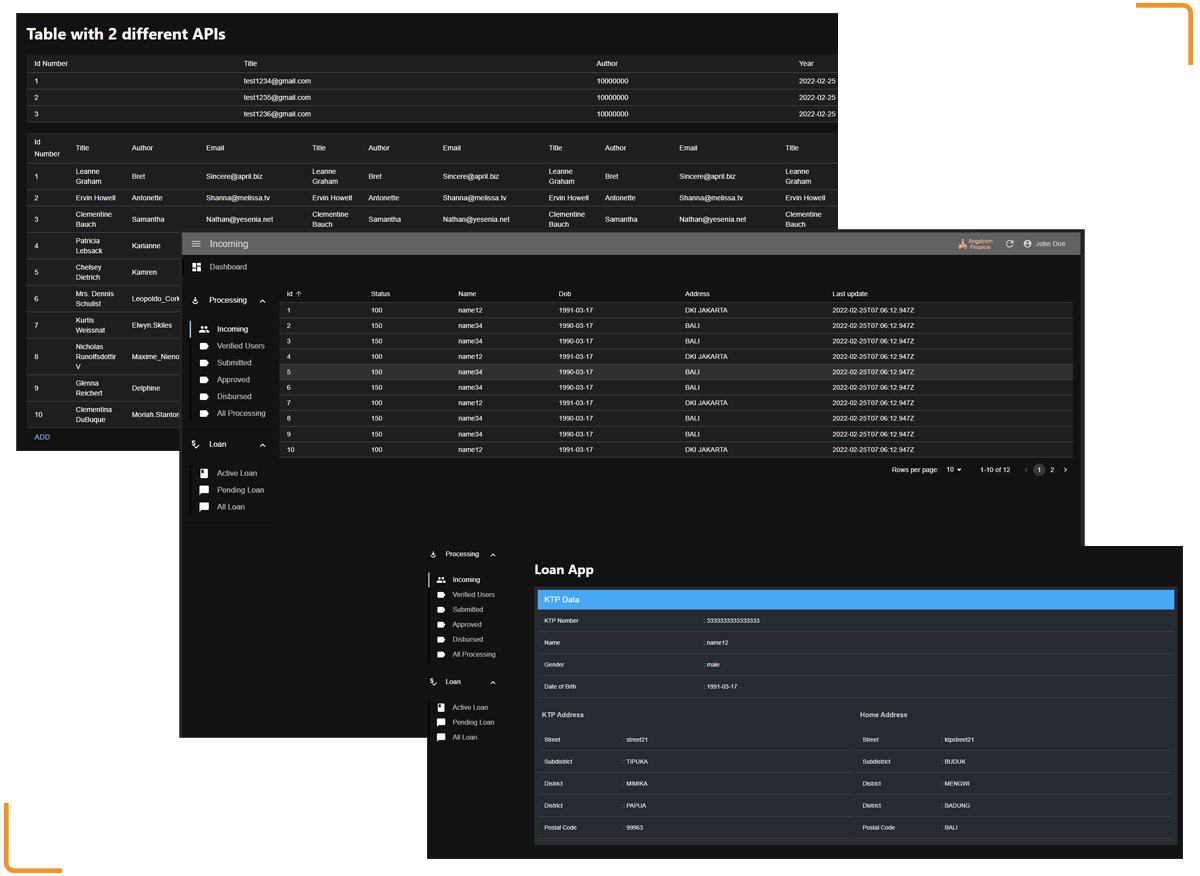
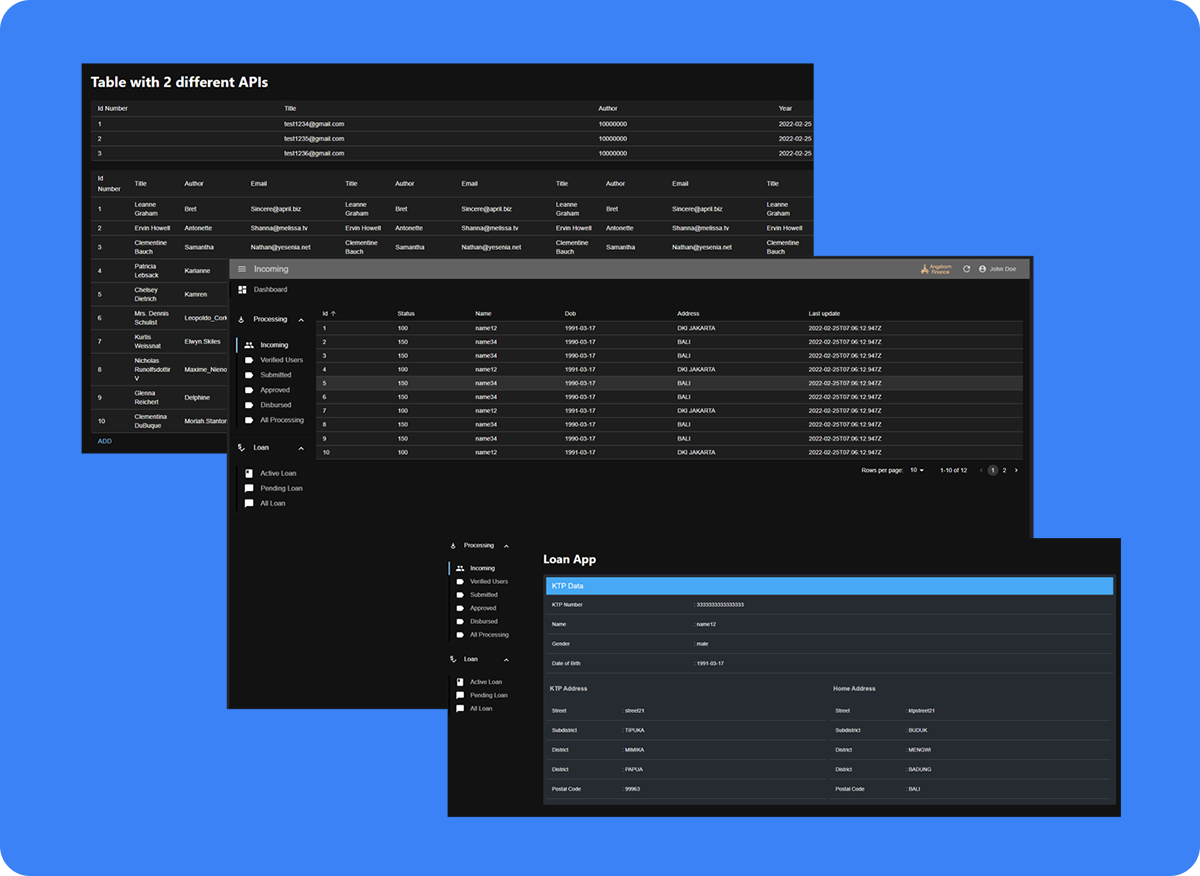
update color palette

diff --git a/src/Components/Footer.jsx b/src/Components/Footer.jsx
@@ -2,8 +2,8 @@ import React from "react";
 
 export default function Footer() {
     return (
-        <footer className="text-center lg:text-left bg-indigo-800 text-gray-100 mt-12">
-            <div className="flex justify-center items-center lg:justify-between pt-6 pb-6 pl-24 pr-24 border-b border-gray-300">
+        <footer className="text-center lg:text-left bg-gradient-to-b from-gray-900 to-blue-900 text-gray-100 mt-12">
+            <div className="flex justify-center items-center lg:justify-between pt-6 pb-6 pl-24 pr-24 border-b border-t border-blue-500/20">
                 <div className="mr-12 hidden lg:block">
                     <span>Kunjungi media sosial untuk mengenal lebih dekat:</span>
                 </div>
@@ -72,17 +72,14 @@ export default function Footer() {
             justify-center
             md:justify-start
           ">
-                            <svg aria-hidden="true" focusable="false" data-prefix="fas" data-icon="cubes"
-                                className="w-4 mr-3" role="img" xmlns="http://www.w3.org/2000/svg"
-                                viewBox="0 0 512 512">
-                                <path fill="currentColor"
-                                    d="M488.6 250.2L392 214V105.5c0-15-9.3-28.4-23.4-33.7l-100-37.5c-8.1-3.1-17.1-3.1-25.3 0l-100 37.5c-14.1 5.3-23.4 18.7-23.4 33.7V214l-96.6 36.2C9.3 255.5 0 268.9 0 283.9V394c0 13.6 7.7 26.1 19.9 32.2l100 50c10.1 5.1 22.1 5.1 32.2 0l103.9-52 103.9 52c10.1 5.1 22.1 5.1 32.2 0l100-50c12.2-6.1 19.9-18.6 19.9-32.2V283.9c0-15-9.3-28.4-23.4-33.7zM358 214.8l-85 31.9v-68.2l85-37v73.3zM154 104.1l102-38.2 102 38.2v.6l-102 41.4-102-41.4v-.6zm84 291.1l-85 42.5v-79.1l85-38.8v75.4zm0-112l-102 41.4-102-41.4v-.6l102-38.2 102 38.2v.6zm240 112l-85 42.5v-79.1l85-38.8v75.4zm0-112l-102 41.4-102-41.4v-.6l102-38.2 102 38.2v.6z">
-                                </path>
-                            </svg>
+                           
                             Portfolio Website
                         </h6>
                         <p>
                             Portfolio ini menggunakan vite-react dan tailwind css, untuk saat ini belum tersedia untuk mobile view.
+                        </p>
+                        <p className="mt-10 text-gray-400">
+                        © 2022 Copyright: Sapta Hadiwijaya
                         </p>
                     </div>
                     <div className="">
@@ -90,16 +87,16 @@ export default function Footer() {
                             Referensi
                         </h6>
                         <p className="mb-4">
-                            <a href="https://vitejs.dev/" className="text-gray-100">Vite React</a>
+                            <a href="https://vitejs.dev/" className="text-gray-400">Vite React</a>
                         </p>
                         <p className="mb-4">
-                            <a href="https://tailwindcss.com/" className="text-gray-100">Tailwind</a>
+                            <a href="https://tailwindcss.com/" className="text-gray-400">Tailwind</a>
                         </p>
                         <p className="mb-4">
-                            <a href="https://heroicons.com/" className="text-gray-100">Hero Icon</a>
+                            <a href="https://heroicons.com/" className="text-gray-400">Hero Icon</a>
                         </p>
                         <p>
-                            <a href="https://mui.com/" className="text-gray-100">Material</a>
+                            <a href="https://mui.com/" className="text-gray-400">Material</a>
                         </p>
                     </div>
                     <div className="">
@@ -107,19 +104,19 @@ export default function Footer() {
                             Navigasi Link
                         </h6>
                         <p className="mb-4">
-                            <a href="#hero" className="text-gray-100">Hero</a>
+                            <a href="#hero" className="text-gray-400">Hero</a>
                         </p>
                         <p className="mb-4">
-                            <a href="#programming" className="text-gray-100">Programming</a>
+                            <a href="#programming" className="text-gray-400">Programming</a>
                         </p>
                         <p className="mb-4">
-                            <a href="#tools" className="text-gray-100">Tools</a>
+                            <a href="#tools" className="text-gray-400">Tools</a>
                         </p>
                         <p className="mb-4">
-                            <a href="#experience" className="text-gray-100">Experience</a>
+                            <a href="#experience" className="text-gray-400">Experience</a>
                         </p>
                         <p>
-                            <a href="#about" className="text-gray-100">Tentang Saya</a>
+                            <a href="#about" className="text-gray-400">Tentang Saya</a>
                         </p>
                     </div>
                     <div className="">
@@ -157,10 +154,6 @@ export default function Footer() {
                         </p>
                     </div>
                 </div>
-            </div>
-            <div className="text-center p-6 bg-gray-900">
-                <span>© 2022 Copyright:</span>
-                <a className="text-gray-100 font-semibold" href="https://tailwind-elements.com/">Sapta Hadiwijaya</a>
             </div>
         </footer>
     );

diff --git a/src/Components/Feature2.jsx b/src/Components/Feature2.jsx
@@ -1,6 +1,10 @@
 /* This example requires Tailwind CSS v2.0+ */
 import { AnnotationIcon, GlobeAltIcon, LightningBoltIcon, ScaleIcon } from '@heroicons/react/outline';
 import Bounce from 'react-reveal/Bounce';
+import git from '../assets/git.png'
+import figma from '../assets/figma.png'
+import postman from '../assets/postman.png'
+import visualStudio from '../assets/visual-studio.png'
 
 const features = [
   {
@@ -9,7 +13,7 @@ const features = [
       'Level: Beginner',
       description2:
       'Exp: Pull request, branching, stashing, rebase',
-    icon: GlobeAltIcon,
+    icon: git,
   },
   {
     name: 'Postman',
@@ -17,7 +21,7 @@ const features = [
     'Level: Beginner',
     description2:
       'Exp: API call test',
-    icon: ScaleIcon,
+    icon: postman,
   },
   {
     name: 'Figma',
@@ -25,7 +29,7 @@ const features = [
     'Level: Beginner',
     description2:
       'Exp: Sketching, importing static web design',
-    icon: LightningBoltIcon,
+    icon: figma,
   },
   {
     name: 'VS Code',
@@ -33,7 +37,7 @@ const features = [
     'Level: Beginner',
     description2:
       'Exp: Git Lens Extension',
-    icon: AnnotationIcon,
+    icon: visualStudio,
   },
 ]
 
@@ -43,7 +47,7 @@ export default function Feature2() {
     <div className="py-12 bg-gray-900" id="tools">
       <div className="max-w-7xl mx-auto px-4 sm:px-6 lg:px-8">
         <div className="lg:text-center">
-          <p className="mt-2 text-3xl leading-8 font-extrabold tracking-tight text-gray-100 sm:text-4xl">
+          <p className="mt-2 text-3xl leading-8 font-extrabold tracking-tight text-white sm:text-4xl">
             Tools
           </p>
           <p className="mt-4 max-w-2xl text-xl text-gray-400 lg:mx-auto">
@@ -54,10 +58,10 @@ export default function Feature2() {
         <div className="mt-10">
           <dl className="space-y-10 md:space-y-0 md:grid md:grid-cols-2 md:gap-x-8 md:gap-y-20">
             {features.map((feature) => (
-              <div key={feature.name} className="relative bg-gray-800 rounded-md w-5/6 h-32 p-4">
+              <div key={feature.name} className="relative bg-gray-800 border-2 border-blue-500/20 rounded-md w-5/6 h-32 p-4">
                 <dt>
-                  <div className="absolute flex items-center justify-center h-24 w-24 rounded-md bg-indigo-500 text-white">
-                    <feature.icon className="h-12 w-12" aria-hidden="true" />
+                  <div className="absolute flex items-center text-3xl justify-center h-24 w-24 rounded-md bg-blue-500 text-white">
+                     <img src={feature.icon} className="h-12 w-12" aria-hidden="true"/>
                   </div>
                   <p className="ml-28 text-xl leading-6 font-medium text-gray-100 text-left">{feature.name}</p>
                 </dt>

diff --git a/src/Components/Home.jsx b/src/Components/Home.jsx
@@ -111,10 +111,10 @@ export default function Home() {
           <main className="mt-10 mx-auto max-w-7xl px-4 sm:mt-12 sm:px-6 md:mt-16 lg:mt-20 lg:px-8 xl:mt-28">
             <div className="sm:text-center lg:text-left">
               <h1 className="text-4xl tracking-tight font-extrabold text-gray-900 sm:text-5xl md:text-6xl">
-                <span className="block text-orange-100 xl:inline">Portfolio</span>{' '}
-                <span className="block text-orange-400 xl:inline">Sapta Hadiwijaya</span>
+                <span className="block text-white xl:inline">Portfolio</span>{' '}
+                <span className="block text-blue-500 xl:inline">Sapta Hadiwijaya</span>
               </h1>
-              <h4 className='text-xl tracking-tight font-extrabold text-orange-100 mt-4'>
+              <h4 className='text-xl tracking-tight font-extrabold text-white mt-4'>
                 <span>Junior Web Developer</span>
               </h4>
               <p className="mt-3 text-base text-gray-400 sm:mt-5 sm:text-lg sm:max-w-xl sm:mx-auto md:mt-5 md:text-xl lg:mx-0">
@@ -128,7 +128,7 @@ export default function Home() {
                   <a
                     href="https://www.figma.com/file/rAkaOzei2imDzX7SJuotIp/Untitled?node-id=0%3A1"
                     target="_blank"
-                    className="w-full flex items-center justify-center px-8 py-3 border border-transparent text-base font-medium rounded-md text-white bg-orange-400 hover:bg-orange-500 md:py-4 md:text-lg md:px-10"
+                    className="w-full flex items-center justify-center px-8 py-3 border border-transparent text-base font-medium rounded-md text-white bg-blue-500 hover:bg-blue-400 md:py-4 md:text-lg md:px-10"
                   >
                     Figma
                   </a>
@@ -137,7 +137,7 @@ export default function Home() {
                   <a
                     href="https://github.com/saptahadiwijaya7"
                     target="_blank"
-                    className="w-full flex items-center justify-center px-8 py-3 border border-orange-400 text-base font-medium rounded-md text-orange-400 bg-transparent hover:bg-transparent md:py-4 md:text-lg md:px-10"
+                    className="w-full flex items-center justify-center px-8 py-3 border border-blue-500 text-base font-medium rounded-md text-blue-500 bg-transparent hover:bg-transparent md:py-4 md:text-lg md:px-10"
                   >
                     Github
                   </a>

diff --git a/src/Components/Experience.jsx b/src/Components/Experience.jsx
@@ -25,7 +25,7 @@ export default function Experience() {
         <Bounce right>
             <div className='my-20' id="experience">
                 <div className="lg:text-center my-10">
-                    <p className="mt-2 text-3xl leading-8 font-extrabold tracking-tight text-gray-100 sm:text-4xl">
+                    <p className="mt-2 text-3xl leading-8 font-extrabold tracking-tight text-white sm:text-4xl">
                         Experience
                     </p>
                     <p className="mt-4 max-w-2xl text-xl text-gray-400 lg:mx-auto">
@@ -45,7 +45,7 @@ export default function Experience() {
                         {experience.map((item, index) => (
                             <div className="relative pt-8 px-4 sm:px-6 lg:px-8 text-left" key={index}>
                                 <h4 className="text-md tracking-tight font-bold text-gray-900 sm:text-5xl md:text-3xl">
-                                    <span className="block text-orange-400 xl:inline">{item.name}</span>
+                                    <span className="block text-white xl:inline">{item.name}</span>
                                 </h4>
                                 <p className="mt-3 text-base text-gray-400 sm:mt-5 sm:text-lg sm:max-w-xl sm:mx-auto md:mt-2 md:text-xl lg:mx-0">
                                     {item.description}

diff --git a/src/Components/About.jsx b/src/Components/About.jsx
@@ -25,7 +25,7 @@ export default function About() {
     return (
         <Bounce left>
             <div className='my-20' id="about">
-                <div className="lg:text-center my-10">
+                <div className="lg:text-center my-10 py-10 border-2 border-blue-500/20 rounded-xl">
                     <p className="mt-2 text-3xl leading-8 font-extrabold tracking-tight text-gray-100 sm:text-4xl">
                         Tentang Saya
                     </p>
@@ -33,7 +33,7 @@ export default function About() {
                         Sapta Hadiwijaya, Junior Front End Dev
                     </p>
                     <img src={self} className="lg:w-1/6 justify-items-center m-auto py-8" />
-                    <p className="mt-4 max-w-4xl lg:mx-auto text-xl text-gray-400">
+                    <p className="mt-4 max-w-4xl lg:mx-auto text-l text-gray-400">
                         Mulai menjadi front-end developer sejak tahun 2020, berawal dari divisi operasional yang kemudian berubah haluan ikut berpartisipasi mengerjakan project website kantor yang menggunakan react js,
                         hingga akhirnya terus belajar menjadi seorang front end developer hingga saat ini
                     </p>

diff --git a/src/Components/Feature.jsx b/src/Components/Feature.jsx
@@ -59,7 +59,7 @@ export default function Feature() {
     <div className="py-24 bg-gray-900" id="programming">
       <div className="max-w-7xl mx-auto px-4 sm:px-6 lg:px-8">
         <div className="lg:text-center">
-          <p className="mt-2 text-3xl leading-8 font-extrabold tracking-tight text-gray-100 sm:text-4xl">
+          <p className="mt-2 text-3xl leading-8 font-extrabold tracking-tight text-white sm:text-4xl">
             Programming
           </p>
           <p className="mt-4 max-w-2xl text-xl text-gray-400 lg:mx-auto">
@@ -72,7 +72,7 @@ export default function Feature() {
             {features.map((feature) => (
               <div key={feature.name} className="relative">
                 <dt>
-                  <div className="absolute flex items-center justify-center h-12 w-12 rounded-md bg-indigo-500 text-white">
+                  <div className="absolute flex items-center justify-center h-12 w-12 rounded-md bg-blue-500 text-gray-900">
                     <feature.icon className="h-6 w-6" aria-hidden="true" />
                   </div>
                   <p className="ml-16 text-lg leading-6 font-medium text-gray-100 text-left">{feature.name}</p>

diff --git a/src/Components/Feature1.jsx b/src/Components/Feature1.jsx
@@ -31,9 +31,9 @@ export default function Feature1() {
         <div className="mt-10">
           <dl className="space-y-10 md:space-y-0 md:grid md:grid-cols-3 md:gap-x-8 md:gap-y-20">
             {features.map((feature) => (
-              <div key={feature.name} className="relative bg-gray-800 rounded-md w-5/6 h-32 p-4 transition ease-in-out delay-150 hover:-translate-y-1 hover:scale-110 duration-300">
+              <div key={feature.name} className="relative bg-gray-800 rounded-md border-2 border-blue-500/20 w-5/6 h-32 p-4 transition ease-in-out delay-150 hover:-translate-y-1 hover:scale-110 duration-300">
                 <dt>
-                  <div className="absolute flex items-center text-3xl justify-center h-24 w-24 rounded-md bg-orange-500 text-white">
+                  <div className="absolute flex items-center text-3xl justify-center h-24 w-24 rounded-md bg-blue-500 text-gray-900">
                     {feature.icon}
                   </div>
                   <p className="ml-28 text-xl leading-6 font-medium text-gray-100 text-left">{feature.name}</p>
